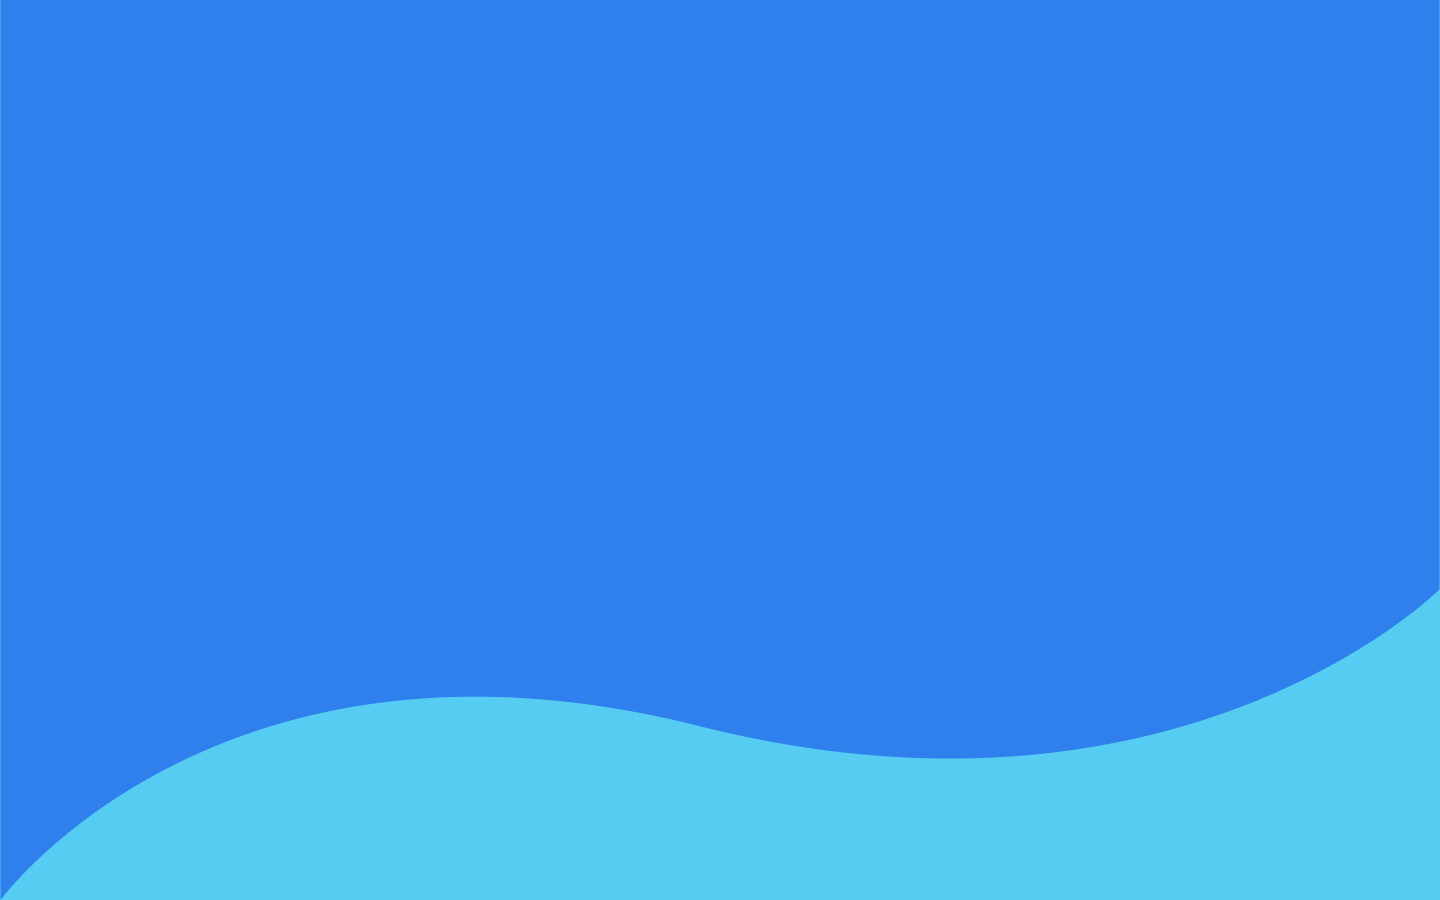
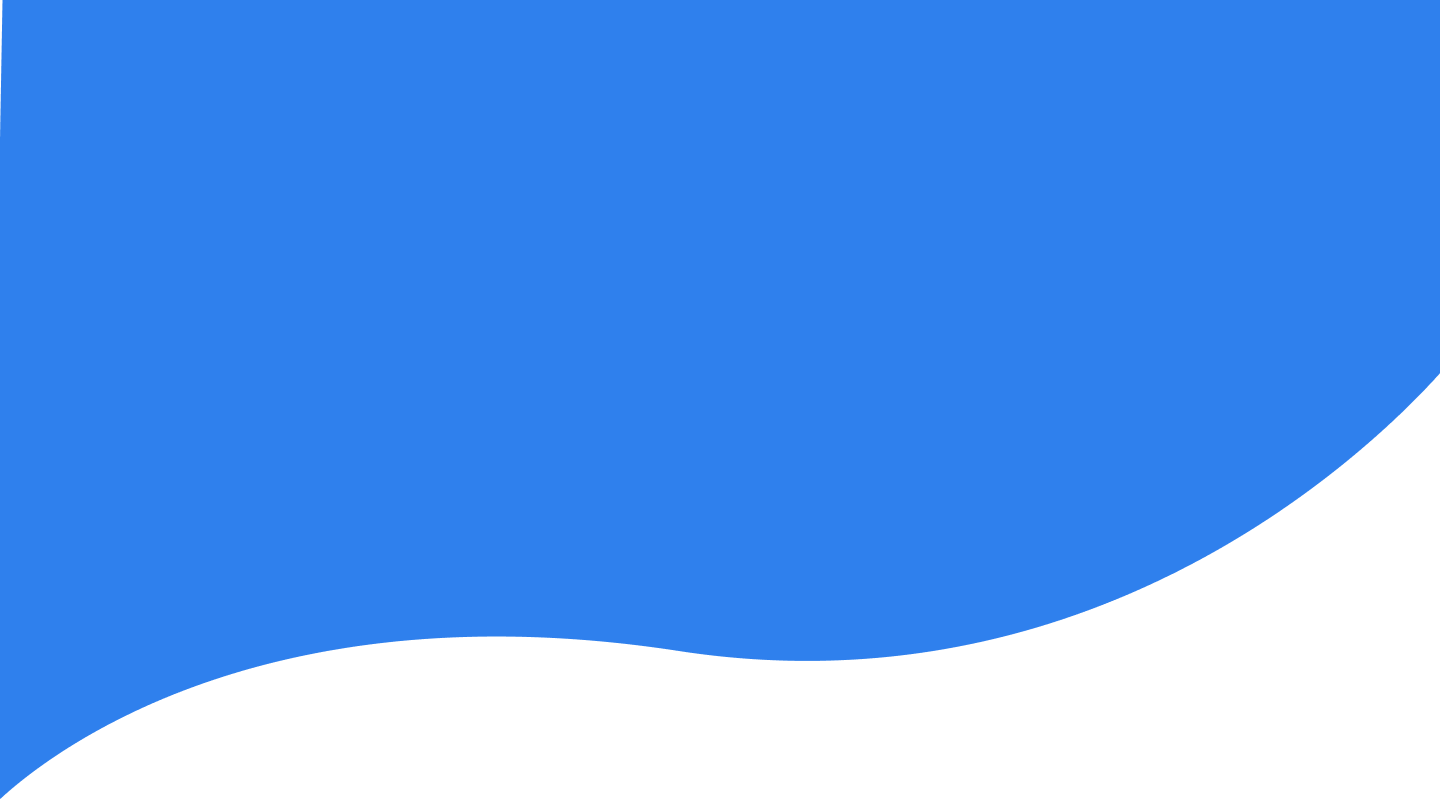
who are you page iteration 1 complete

Changed region(s): [[0.0, 0.4624, 1.0, 1.0]]

diff --git a/client/src/pages/journey/Journey.js b/client/src/pages/journey/Journey.js
@@ -2,64 +2,64 @@ import React from 'react';
 import './Journey.css';
 import { Link } from 'react-router-dom';
 import Footer from '../../components/Footer.js';
-import { Card, Container } from 'react-bootstrap';
-import Polygon from './assets/Polygon.png';
+import { Card, Container, Image } from 'react-bootstrap';
 import Union from './assets/Union.png';
 import User from './assets/user.png';
 import Briefcase from './assets/briefcase.png';
+import Background from './assets/Background.png';
 const Journey = () => {
   return (
-    <>
-      <div className='background'>
-        <Container className='wrapper'>
-          <h1 className='title-wrapper'>
-            To begin, <br /> tell us which journey reflects you
-          </h1>
-          <Link>
-            <Card className='role-wrapper d-flex flex-row'>
-              <Card.Header className='card-image-wrapper'>
-                <Card.Img
-                  src={User}
-                  alt='polygon'
-                  id='user-icon'
-                  className='m-auto'
-                />
-              </Card.Header>
-              <Card.Body className='m-auto'>
-                <Card.Title className='card-title'> Builder</Card.Title>
-                <Card.Text className='card-text'>
-                  You are a coder ,UXUI product designer, a builder of magic on
-                  the screen
-                </Card.Text>
-              </Card.Body>
-              <Card.Img src={Union} alt='arrow' id='arrow' />
-            </Card>
-          </Link>
-          <Link>
-            <Card className='role-wrapper d-flex flex-row'>
-              <Card.Header className='card-image-wrapper'>
-                <Card.Img
-                  src={Briefcase}
-                  alt='polygon'
-                  id='user-icon'
-                  className='m-auto'
-                />
-              </Card.Header>
+    <div className='wrapper'>
+      <Image src={Background} alt='background' className='background' />
+      <Card className='title-wrapper'>
+        <Card.Title className='title'>
+          To begin, <br /> tell us which journey reflects you
+        </Card.Title>
+      </Card>
+      <Link>
+        <Card className='role-wrapper d-flex flex-row'>
+          <Card.Header className='card-image-wrapper'>
+            <Card.Img
+              src={User}
+              alt='polygon'
+              id='user-icon'
+              className='m-auto'
+            />
+          </Card.Header>
+          <Card.Body className='m-auto'>
+            <Card.Title className='card-title'> Builder</Card.Title>
+            <Card.Text className='card-text'>
+              You are a coder ,UXUI product designer, a builder of magic on the
+              screen
+            </Card.Text>
+          </Card.Body>
+          <Card.Img src={Union} alt='arrow' id='arrow' />
+        </Card>
+      </Link>
+      <Link>
+        <Card className='role-wrapper d-flex flex-row'>
+          <Card.Header className='card-image-wrapper'>
+            <Card.Img
+              src={Briefcase}
+              alt='polygon'
+              id='user-icon'
+              className='m-auto'
+            />
+          </Card.Header>
 
-              <Card.Body className='m-auto'>
-                <Card.Title className='card-title'>Founder</Card.Title>
-                <Card.Text className='card-text'>
-                  You maybe have a tech background or you have an idea that just
-                  came to you in shower
-                </Card.Text>
-              </Card.Body>
-              <Card.Img src={Union} alt='arrow' id='arrow' />
-            </Card>
-          </Link>
-        </Container>
-      </div>
+          <Card.Body className='m-auto'>
+            <Card.Title className='card-title'>Founder</Card.Title>
+            <Card.Text className='card-text'>
+              You maybe have a tech background or you have an idea that just
+              came to you in shower
+            </Card.Text>
+          </Card.Body>
+          <Card.Img src={Union} alt='arrow' id='arrow' />
+        </Card>
+      </Link>
+
       <Footer />
-    </>
+    </div>
   );
 };
 

diff --git a/client/src/pages/journey/Journey.css b/client/src/pages/journey/Journey.css
@@ -5,35 +5,37 @@
   padding: 0;
   font-family: 'Roboto', sans-serif;
 }
-.background {
-  background-image: url('./assets/background.png');
-  background-size: cover !important;
-  background-repeat: no-repeat;
-  height: 100%;
-  width: 100%;
-  margin-left: -12px;
-}
 .wrapper {
-  border: 2px blue solid;
-  height: 75%;
-  width: 100% !important;
-
-  background: transparent;
+  height: 100%;
+  max-width: 100% !important;
+  background: #56ccf2;
+  margin-top: 0px;
+  display: flex;
+  flex-direction: column;
+}
+.background {
+  position: absolute;
+  z-index: 0;
+  margin: 0px 0px 0px 0px;
+  height: 75vh;
+  width: 100vw;
 }
 .title-wrapper {
-  margin-top: 188px;
-  width: 936px;
-  height: 170px;
   background: transparent !important;
   border: none;
-  color: #ffffff;
+  position: relative;
+  z-index: 1;
+}
+.title {
+  color: #ffffff !important;
   font-family: Inter;
-  font-size: 60px;
+  font-size: 60px !important;
   font-style: normal;
-  font-weight: 700;
-  line-height: 60px;
-  letter-spacing: 0em;
+  font-weight: 700 !important;
+  line-height: 60px !important;
+  letter-spacing: 0em !important;
   text-align: left;
+  margin: 100px auto 10px auto;
 }
 .card-title {
   font-family: Inter;
@@ -55,7 +57,7 @@
 #arrow {
   width: 18.67px;
   height: 18.67px;
-  margin: auto;
+  margin: auto 10px auto 10px auto;
 }
 #user-icon {
   width: 28px;
@@ -65,7 +67,7 @@
   background-image: url('./assets/Polygon.png');
   background-size: contain;
   background-repeat: no-repeat !important;
-  margin: auto;
+  margin: auto 10px auto 10px;
   border: none;
   height: 74px;
   width: 75px;
@@ -75,7 +77,7 @@
   background-image: url('./assets/PolygonHover.png');
   background-size: contain;
   background-repeat: no-repeat !important;
-  margin: auto;
+  margin: auto 10px auto 10px;
   border: none;
   height: 74px;
   width: 75px;

diff --git a/client/src/components/Footer.js b/client/src/components/Footer.js
@@ -2,14 +2,13 @@ import React from 'react';
 import './Footer.css';
 import FacebookLogo from './assets/facebook.png';
 import InstagramLogo from './assets/instagram.png';
-import Logo from './assets/logoHolder.png';
 import { Link } from 'react-router-dom';
 import { Card, Container } from 'react-bootstrap';
 
 const Footer = () => {
   return (
-    <>
-      <Container className='d-flex flex-row'>
+    <div className='full-wrapper'>
+      <Container className='d-flex flex-row footer'>
         <Card className='right-wrapper d-flex flex-row'>
           <Card.Body className='d-flex flex-column social-wrapper'>
             <Card.Text className='follow'> Follow Us</Card.Text>
@@ -30,7 +29,7 @@ const Footer = () => {
             />
             <Card.Text className='mvp'>Make It MVP</Card.Text>
           </Card.Body>
-          <Card.Body>
+          <Card.Body className='description'>
             <Card.Text className='description-wrapper'>
               Lorem ipsum dolor sit amet, consectetur adipiscing elit, sed do
               eiusmod tempor incididunt.
@@ -44,7 +43,7 @@ const Footer = () => {
         </Card>
       </Container>
       <h5>Copyright &#169; 2021 MakeItMVP. All rights reserved.</h5>
-    </>
+    </div>
   );
 };
 

diff --git a/client/src/components/Footer.css b/client/src/components/Footer.css
@@ -1,4 +1,12 @@
 @import url('https://fonts.googleapis.com/css2?family=DM+Sans&display=swap');
+
+.full-wrapper {
+  background: #ffffff !important;
+  max-width: 100% !important;
+}
+.footer {
+  max-width: 100% !important;
+}
 #insta-logo {
   height: 16px;
   width: 16px;
@@ -59,6 +67,9 @@
   line-height: 20px;
   letter-spacing: -0.204545px;
   color: #1e2833;
+}
+.description {
+  margin: auto;
 }
 .follow {
   height: 22px;
